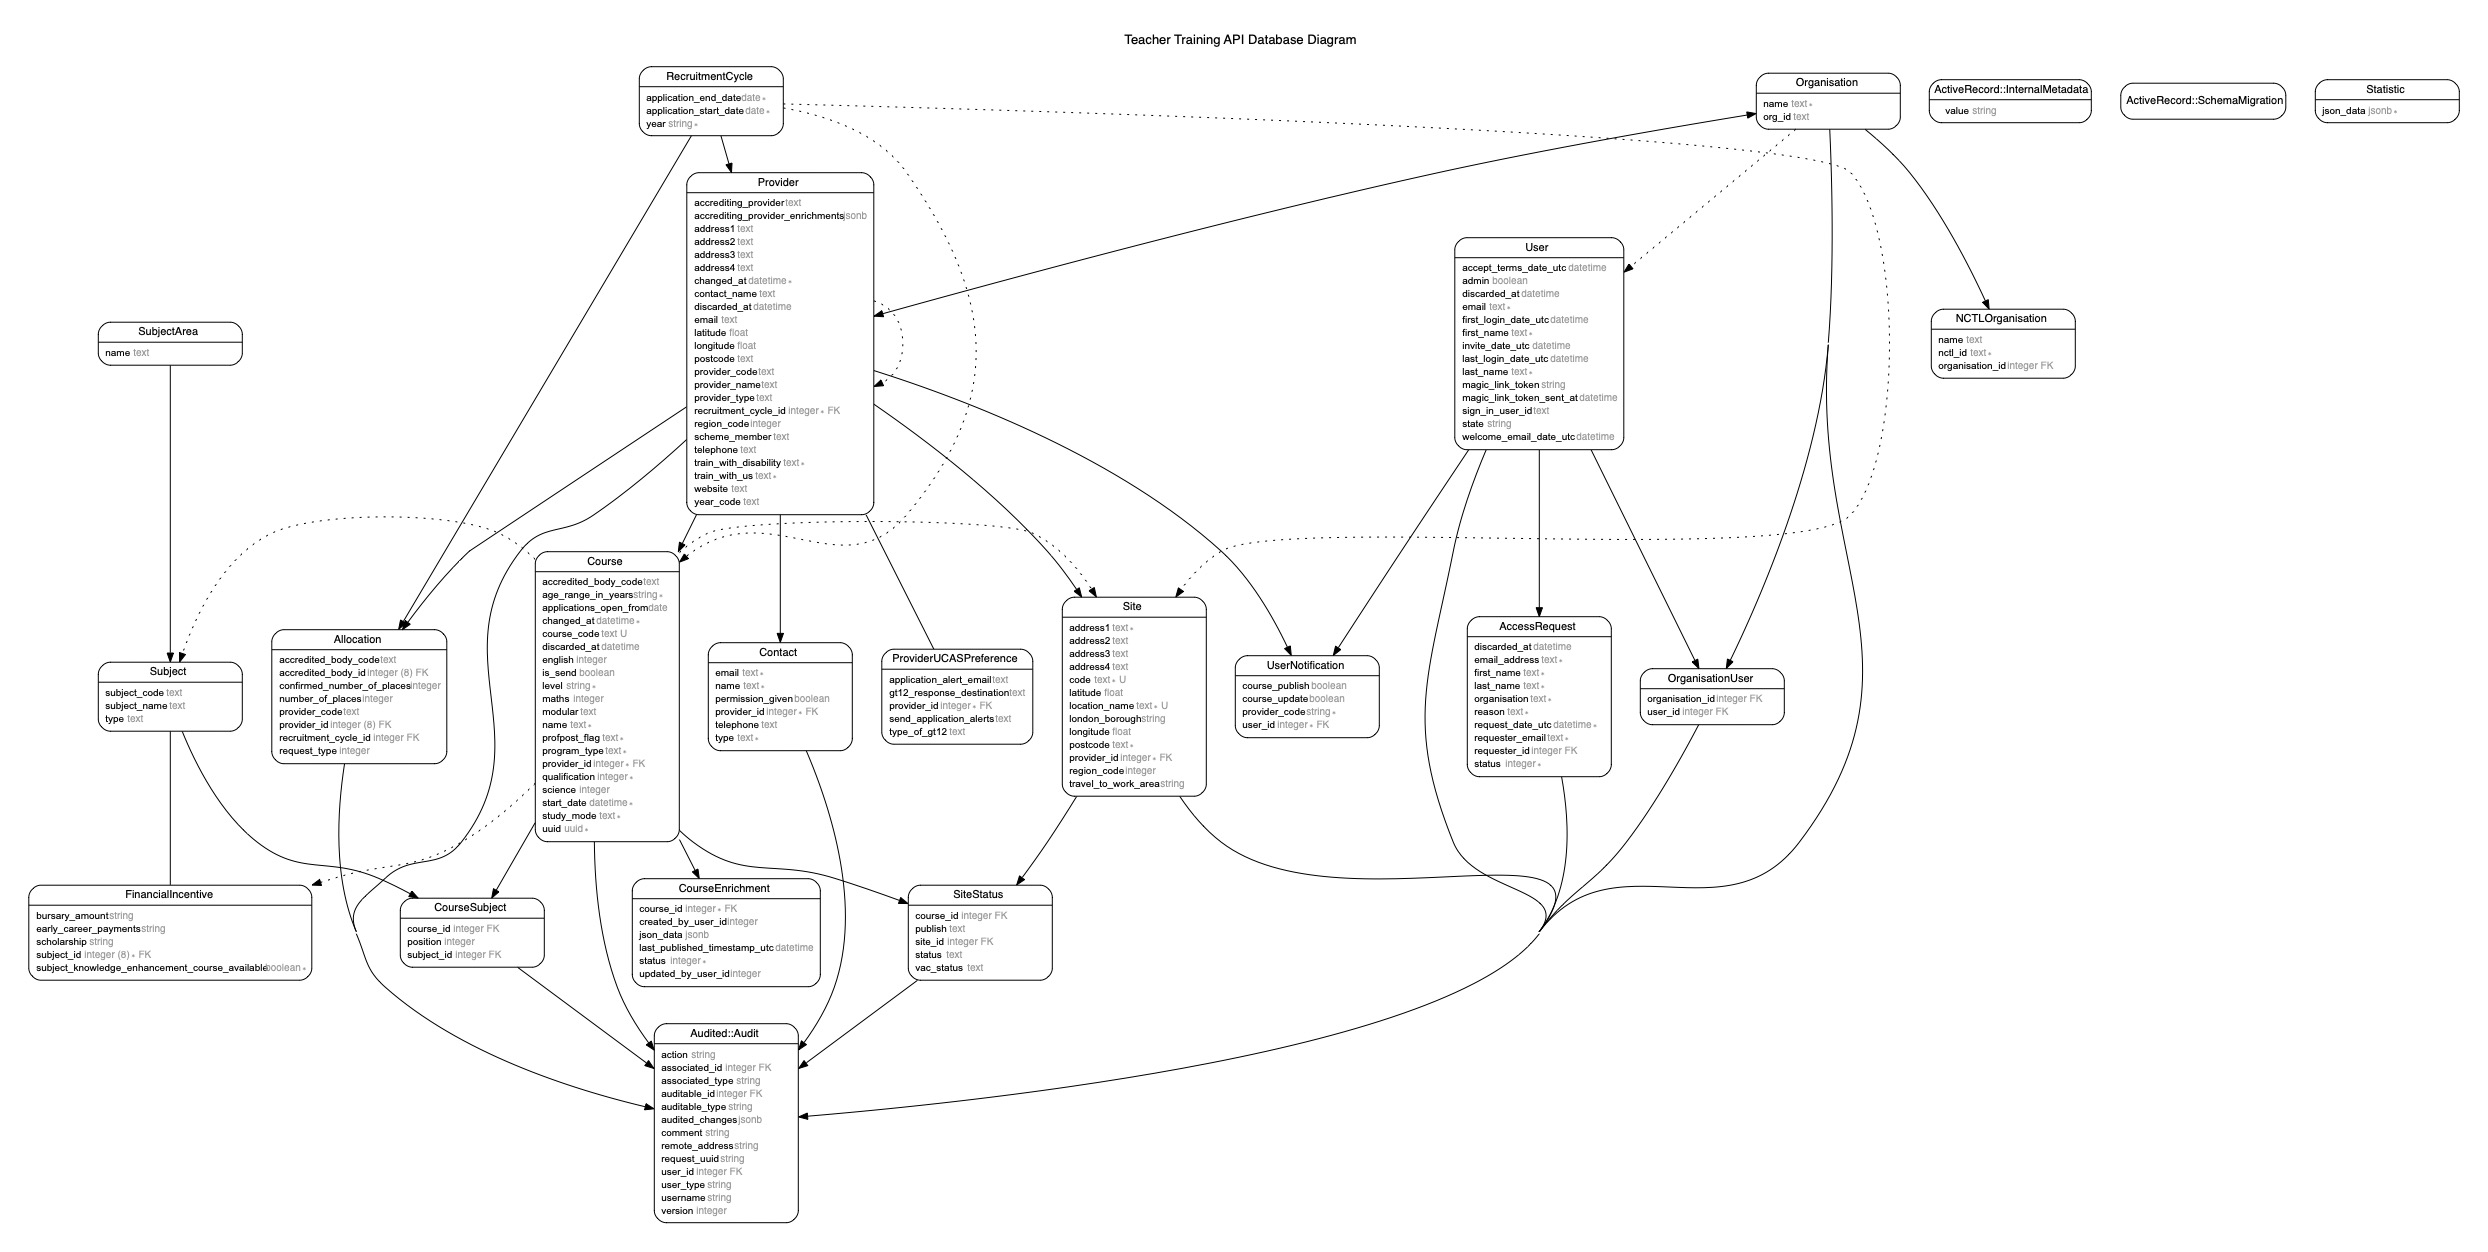
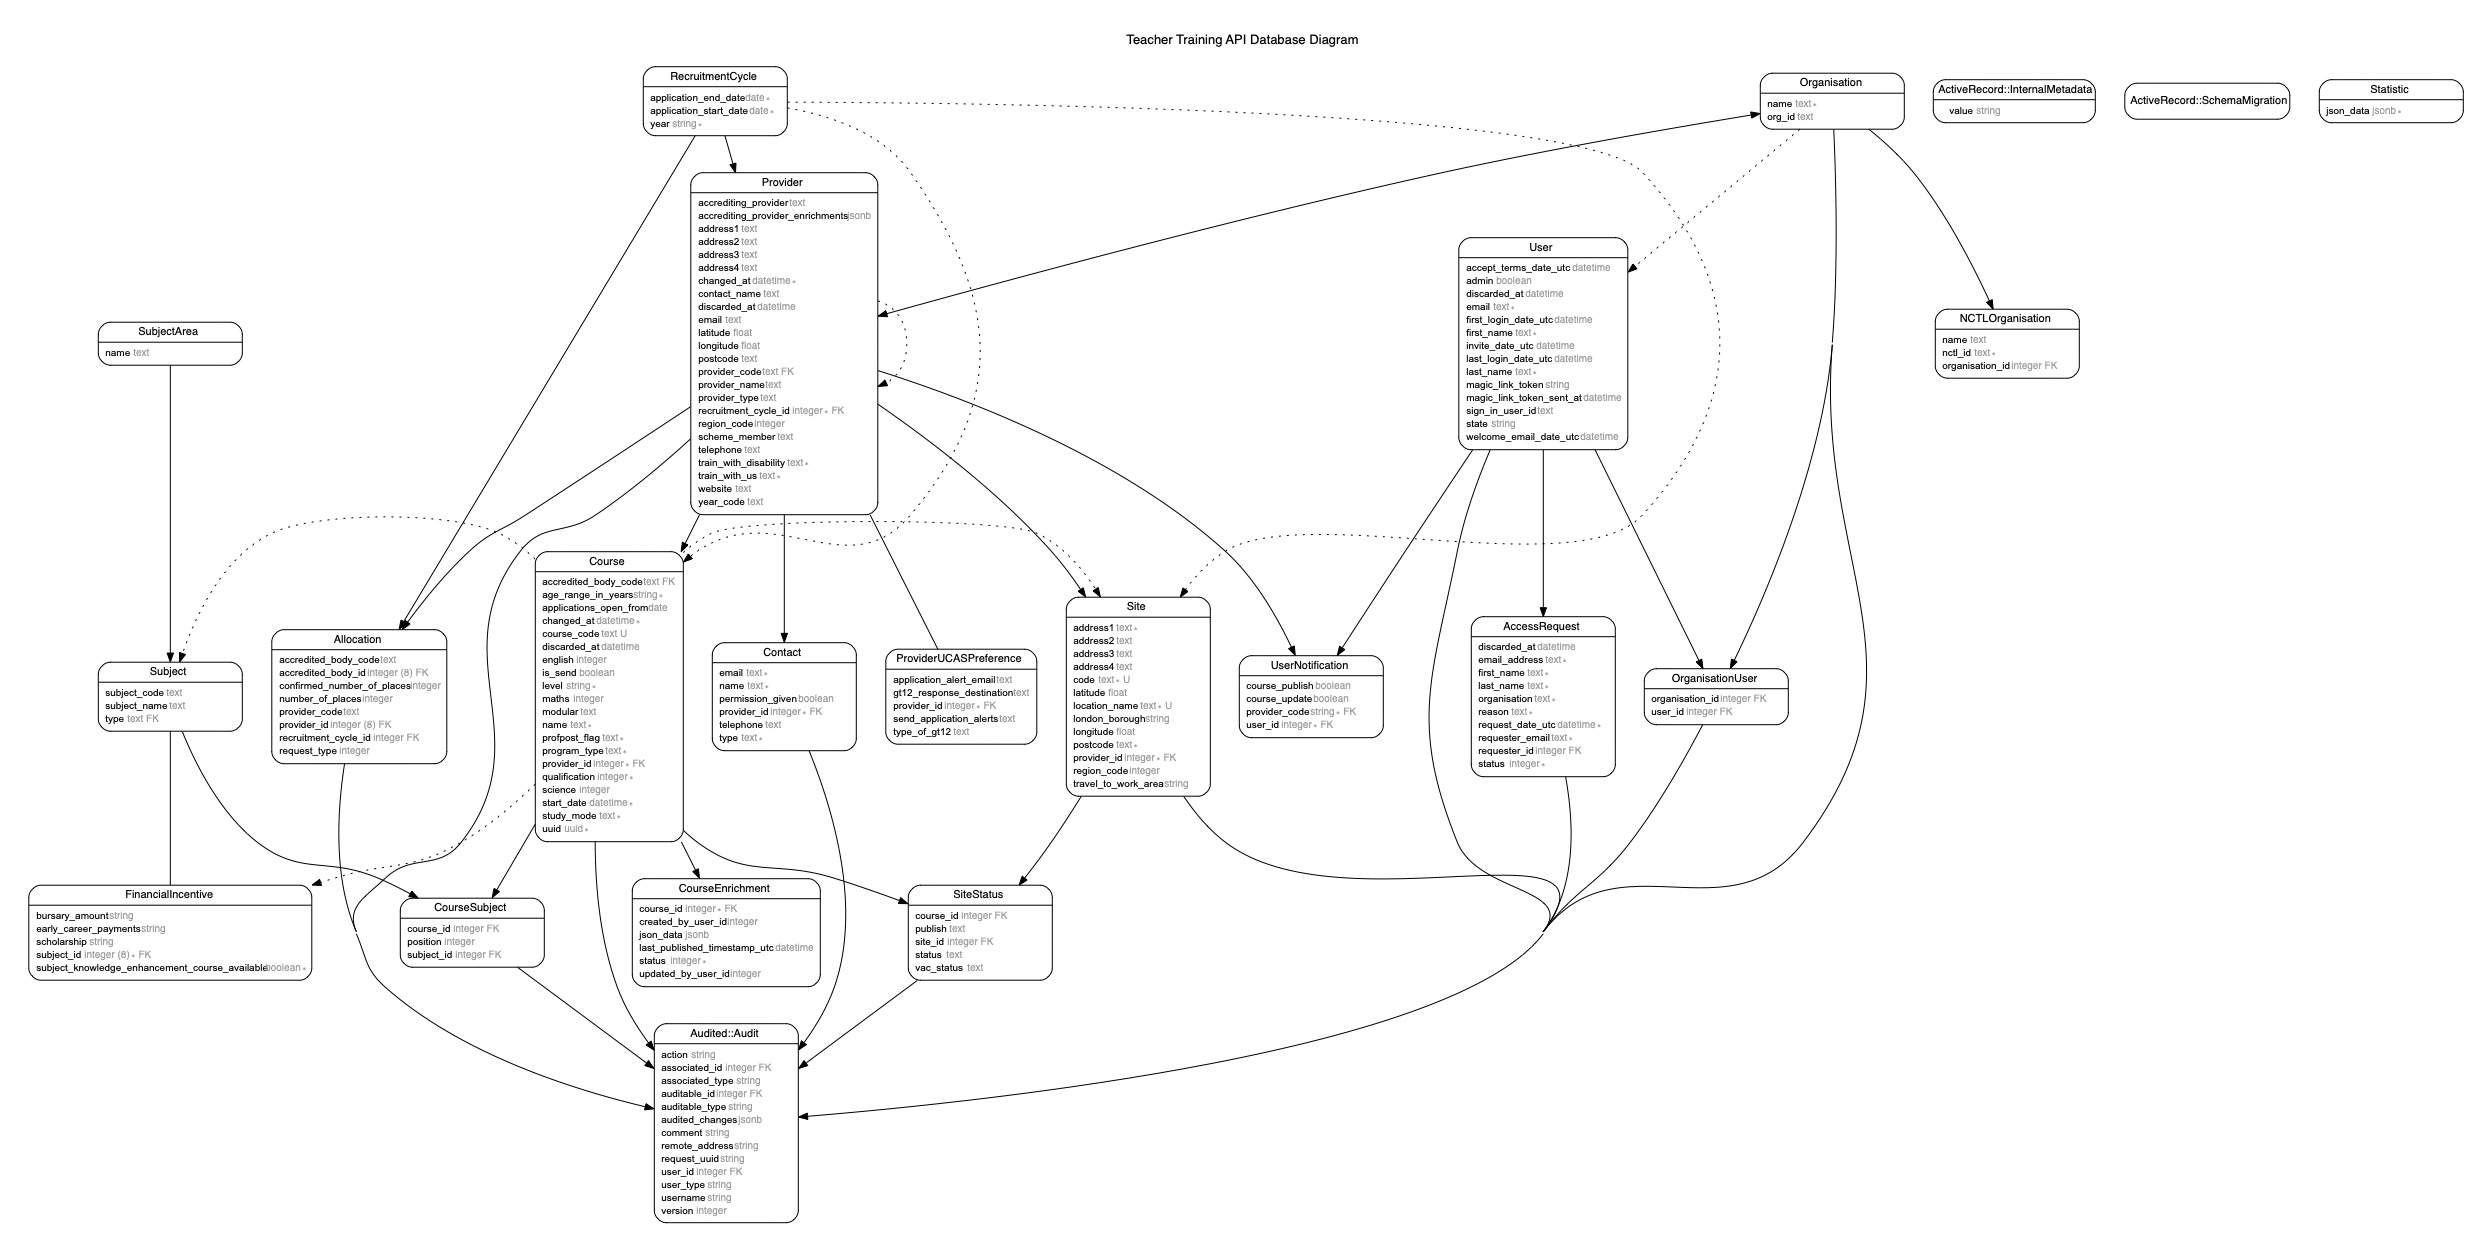
[1244] Add database validation

diff --git a/db/schema.rb b/db/schema.rb
@@ -2,25 +2,26 @@
 # of editing this file, please use the migrations feature of Active Record to
 # incrementally modify your database, and then regenerate this schema definition.
 #
-# This file is the source Rails uses to define your schema when running `rails
-# db:schema:load`. When creating a new database, `rails db:schema:load` tends to
+# This file is the source Rails uses to define your schema when running `bin/rails
+# db:schema:load`. When creating a new database, `bin/rails db:schema:load` tends to
 # be faster and is potentially less error prone than running all of your
 # migrations from scratch. Old migrations may fail to apply correctly if those
 # migrations use external dependencies or application code.
 #
 # It's strongly recommended that you check this file into your version control system.
 
-ActiveRecord::Schema.define(version: 2021_02_01_103254) do
+ActiveRecord::Schema.define(version: 2021_03_16_155231) do
 
   # These are extensions that must be enabled in order to support this database
   enable_extension "btree_gin"
   enable_extension "btree_gist"
+  enable_extension "fuzzystrmatch"
   enable_extension "pg_buffercache"
   enable_extension "pg_stat_statements"
   enable_extension "plpgsql"
   enable_extension "uuid-ossp"
 
-  create_table "__EFMigrationsHistory", primary_key: "MigrationId", id: :string, limit: 150, force: :cascade do |t|
+  create_table "__EFMigrationsHistory", primary_key: "MigrationId", id: { type: :string, limit: 150 }, force: :cascade do |t|
     t.string "ProductVersion", limit: 32, null: false
   end
 
@@ -189,6 +190,32 @@ ActiveRecord::Schema.define(version: 2021_02_01_103254) do
     t.index ["subject_id"], name: "index_financial_incentive_on_subject_id"
   end
 
+  create_table "gias_establishment", force: :cascade do |t|
+    t.text "urn"
+    t.text "name"
+    t.text "postcode"
+  end
+
+  create_table "gias_establishment_provider_name_matches", force: :cascade do |t|
+    t.integer "establishment_id"
+    t.integer "provider_id"
+  end
+
+  create_table "gias_establishment_provider_postcode_matches", force: :cascade do |t|
+    t.integer "establishment_id"
+    t.integer "provider_id"
+  end
+
+  create_table "gias_establishment_site_name_matches", force: :cascade do |t|
+    t.integer "establishment_id"
+    t.integer "site_id"
+  end
+
+  create_table "gias_establishment_site_postcode_matches", force: :cascade do |t|
+    t.integer "establishment_id"
+    t.integer "site_id"
+  end
+
   create_table "nctl_organisation", id: :serial, force: :cascade do |t|
     t.text "name"
     t.text "nctl_id", null: false
@@ -324,8 +351,8 @@ ActiveRecord::Schema.define(version: 2021_02_01_103254) do
 
   create_table "user", id: :serial, force: :cascade do |t|
     t.text "email"
-    t.text "first_name"
-    t.text "last_name"
+    t.text "first_name", null: false
+    t.text "last_name", null: false
     t.datetime "first_login_date_utc"
     t.datetime "last_login_date_utc"
     t.text "sign_in_user_id"

diff --git a/db/migrate/20210316155231_add_not_null_constraint_to_users.rb b/db/migrate/20210316155231_add_not_null_constraint_to_users.rb
@@ -1,0 +1,6 @@
+class AddNotNullConstraintToUsers < ActiveRecord::Migration[6.1]
+  def change
+    change_column_null(:user, :first_name, false)
+    change_column_null(:user, :last_name, false)
+  end
+end
